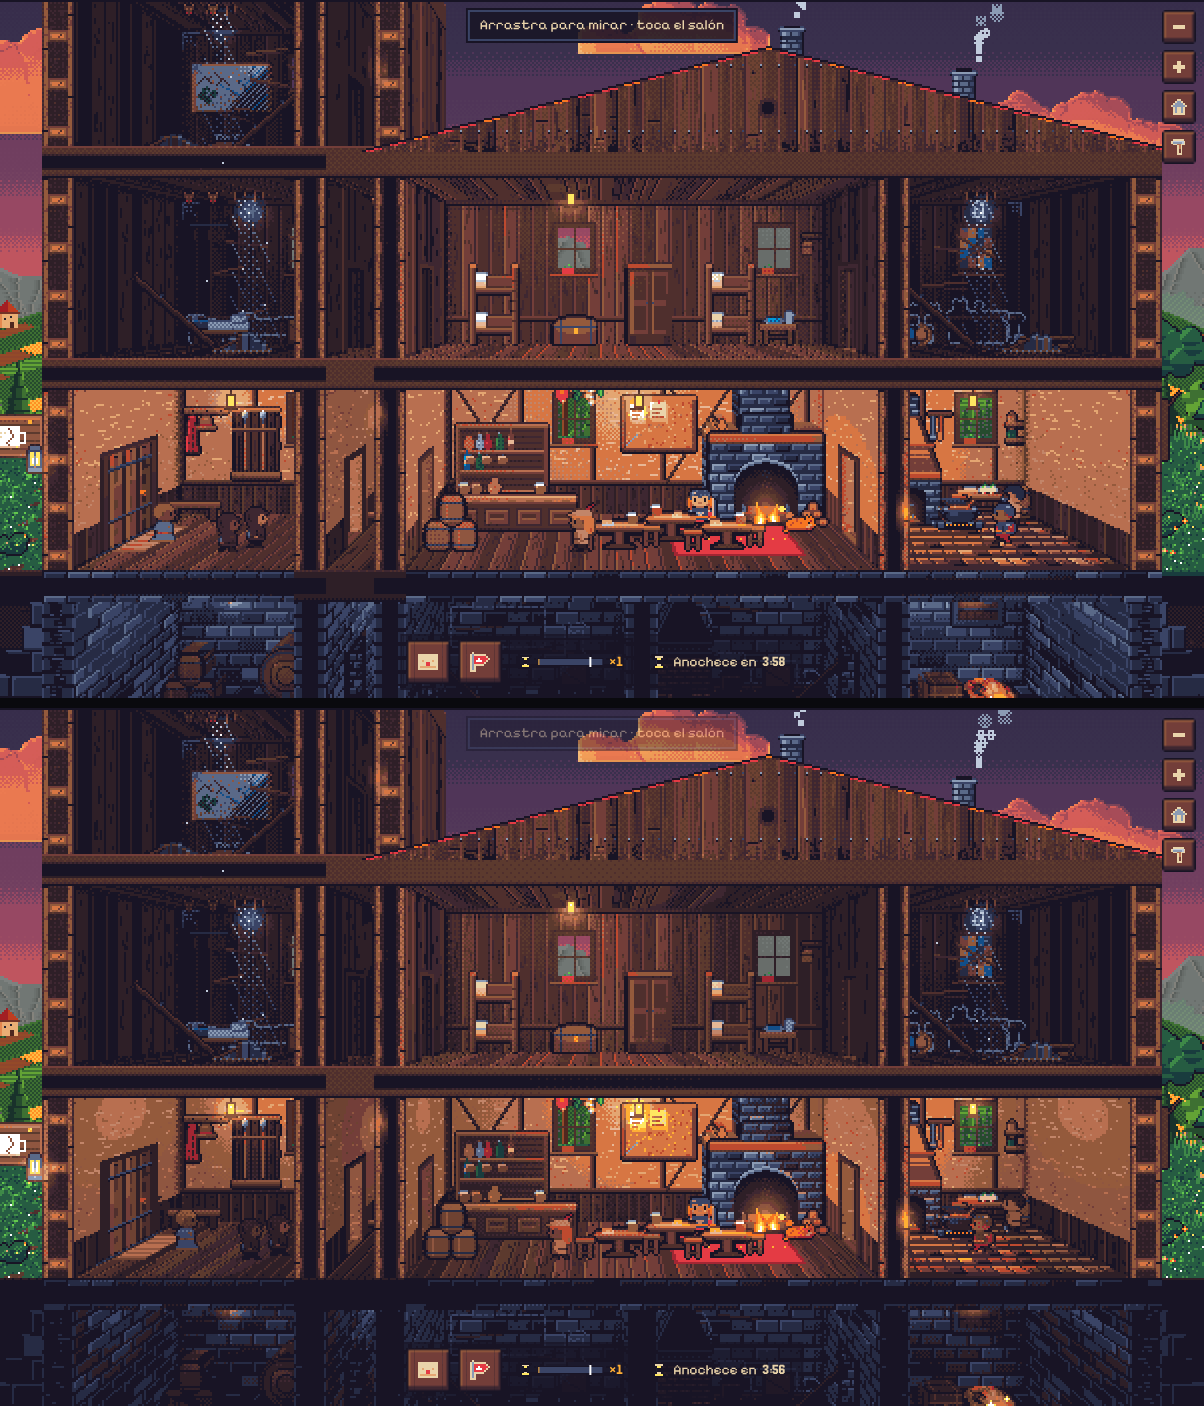
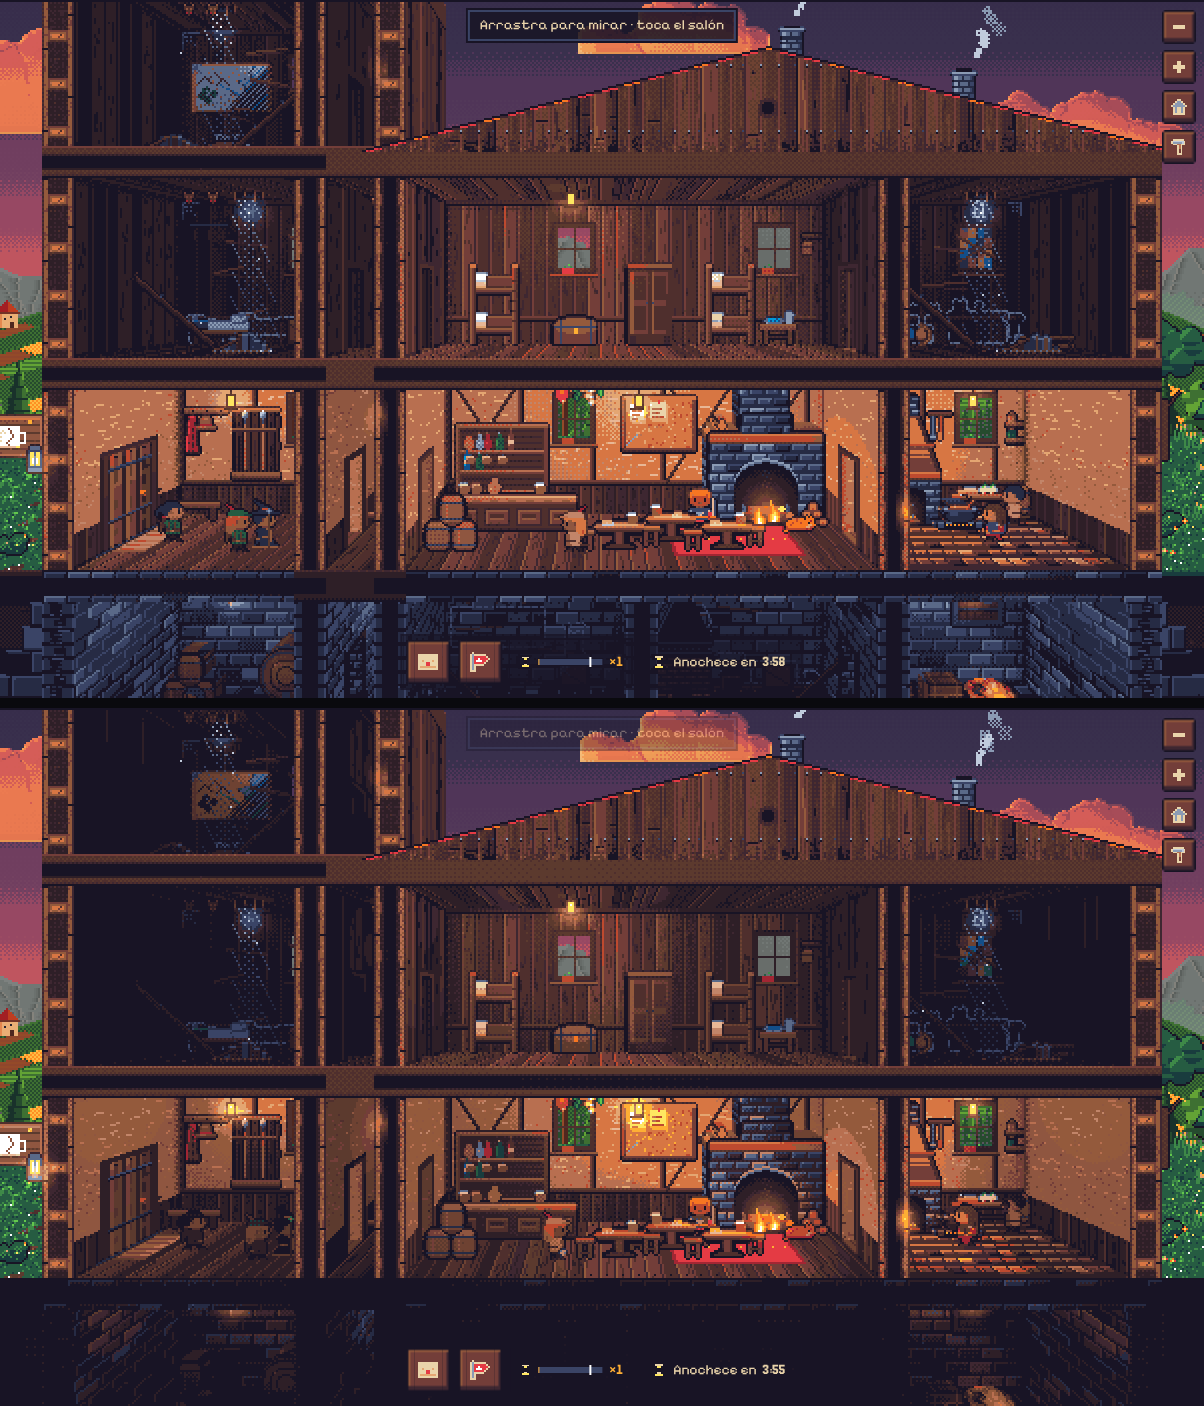
Luz con ambiente: las rotas también se oscurecen y sin mínimo
El usuario prefiere la versión oscurecida de las salas rotas y sin un mínimo de
luz de fondo: vuelve a ×0,45 de fondo y ×1,6 de focos para todas las salas.
El halo sigue sin atravesar los forjados. Capturas al día.

Claude-Session: https://claude.ai/code/session_014SpyiNw8xcPCkBhD81BYzV

diff --git a/src/world/rooms/gl.ts b/src/world/rooms/gl.ts
@@ -87,7 +87,6 @@ const SURFACE_FRAG = /* glsl */ `
   uniform mat4 uProj;
   uniform float uRim;
   uniform float uAmbK;
-  uniform float uMood;
   varying vec2 vUv;
   float distAt(float d) {
     // Profundidad del búfer (0-1) a distancia a la cámara.
@@ -132,8 +131,8 @@ const SURFACE_FRAG = /* glsl */ `
     vec3 world = uOrigin + uAxisU * local.x + uAxisV * local.y;
     vec3 n = uNormal;
     // Luz del día solo por encima del suelo.
-    // Con «luz con ambiente», menos luz de fondo dentro (las salas sin focos no bajan de 0.2).
-    vec3 amb = uSun < 0.99 && uAmbK < 1.0 && uMood > 0.5 ? max(uAmbient * uAmbK, min(uAmbient, vec3(0.2))) : uAmbient;
+    // Con «luz con ambiente», menos luz de fondo dentro de las salas.
+    vec3 amb = uSun < 0.99 ? uAmbient * uAmbK : uAmbient;
     vec3 light = amb + uDaylight * uSun * step(-0.5, world.y);
     // El halo de las llamas: la luz que se ve en el aire alrededor de cada una. Se mide en la
     // pantalla (lo que queda cerca de la llama a la vista, esté delante o detrás) y se suma al
@@ -303,12 +302,6 @@ export function sharedUniforms() {
   };
 }
 
-/**
- * Luces de fondo que no bajan con «luz con ambiente» (las salas rotas y las vacías, que ya son
- * oscuras): la escena las apunta aquí.
- */
-export const NO_MOOD = new WeakSet<object>();
-
 /** Sin profundidad (la primera pasada): todo «lejos», nada hace sombra. */
 const NO_DEPTH = (() => {
   const t = new DataTexture(
@@ -352,7 +345,6 @@ export class Look {
           uDither: { value: o.dither ?? 0.035 },
           uHalo: { value: o.halo ?? 1 },
           uRim: { value: (o.wrap ?? 0.25) >= 0.5 ? 0.9 : 0 },
-          uMood: { value: NO_MOOD.has(o.ambient) ? 0 : 1 },
           uUvOffset: { value: new Vector2(0, 0) },
           uUvScale: { value: new Vector2((o.repeat ?? 1) / (o.frames ?? 1), 1) },
         },

diff --git a/src/world/rooms/RoomScene.ts b/src/world/rooms/RoomScene.ts
@@ -88,16 +88,7 @@ import { FLAME_FRAMES, FLAME_H, FLAME_W, flameStrip } from './flame';
 import { faces, sideTexel, type Mat } from './volume';
 import { RaidShow } from './raid';
 import { HEARTH_RIGHT, NO_LOOK, type SalonLook } from './salon';
-import {
-  FEW_LIGHTS,
-  Look,
-  MAX_LIGHTS,
-  NO_MOOD,
-  mesh,
-  quad,
-  sharedUniforms,
-  type Corners,
-} from './gl';
+import { FEW_LIGHTS, Look, MAX_LIGHTS, mesh, quad, sharedUniforms, type Corners } from './gl';
 import { route, type Place } from './people';
 import {
   CELL_W,
@@ -179,16 +170,13 @@ const OUTDOOR: Tint = [0.3, 0.28, 0.42];
  * Luz con ambiente (Ajustes): la luz de fondo de las salas se multiplica por esto y los focos
  * por `MOOD_LAMPS`, así quedan charcos de luz alrededor de fuegos, faroles y velas.
  */
-const MOOD_AMBIENT = 0.6;
-const MOOD_LAMPS = 1.5;
+const MOOD_AMBIENT = 0.45;
+const MOOD_LAMPS = 1.6;
 const ROOM_LIT: Tint = [0.44, 0.38, 0.46];
 const ROOM_DEEP: Tint = [0.42, 0.37, 0.52];
 const ROOM_DIM: Tint = [0.34, 0.31, 0.46];
 /** Sala rota: apagada y fría (azulada), que se distinga de lejos de las que se usan. */
 const ROOM_RUIN: Tint = [0.28, 0.31, 0.46];
-// Las rotas y las vacías se quedan con su luz con «luz con ambiente».
-NO_MOOD.add(ROOM_RUIN);
-NO_MOOD.add(ROOM_DIM);
 const STAIRS: Tint = [0.4, 0.35, 0.5];
 const CAVE: Tint = [0.3, 0.27, 0.4];
 /** El corte de la tierra y la roca, que se vea aunque no le dé ningún farol. */

diff --git a/docs/salas/README.md b/docs/salas/README.md
@@ -130,9 +130,8 @@ La lista completa de pendientes e ideas (bucle, monetización, amigos, torneos, 
 - **Visitantes** con ropa propia (campesino, mercader, noble y forastero: `OutfitId` en
   `art/heroes/look.ts`); en el retrato usan la de un héroe parecido.
 - **Luz con ambiente** (Ajustes › Imagen, `moodLight`): la luz de fondo de las salas por
-  `MOOD_AMBIENT` (sin bajar de 0,2, para que las rotas y el sótano se lean) y los focos por
-  `MOOD_LAMPS`, en `RoomScene.ts`; así quedan charcos de luz. Las rotas y las vacías no bajan
-  (`NO_MOOD` en `gl.ts`). Sin marcar, la de siempre. El halo de los focos solo se pinta dentro
+  `MOOD_AMBIENT` y los focos por `MOOD_LAMPS`, en `RoomScene.ts`; así quedan charcos de luz (las
+  rotas, más oscuras: lo quiere así el usuario). Sin marcar, la de siempre. El halo de los focos solo se pinta dentro
   de la sala: antes asomaba por los forjados. En la
   misma pasada hay una prueba de sombras y luz de borde (`lit` en `gl.ts`), apagada: se enciende
   desde la consola (`window.__shadows`, `__dbg`); ver [`../estilo-cnc.md`](../estilo-cnc.md).
